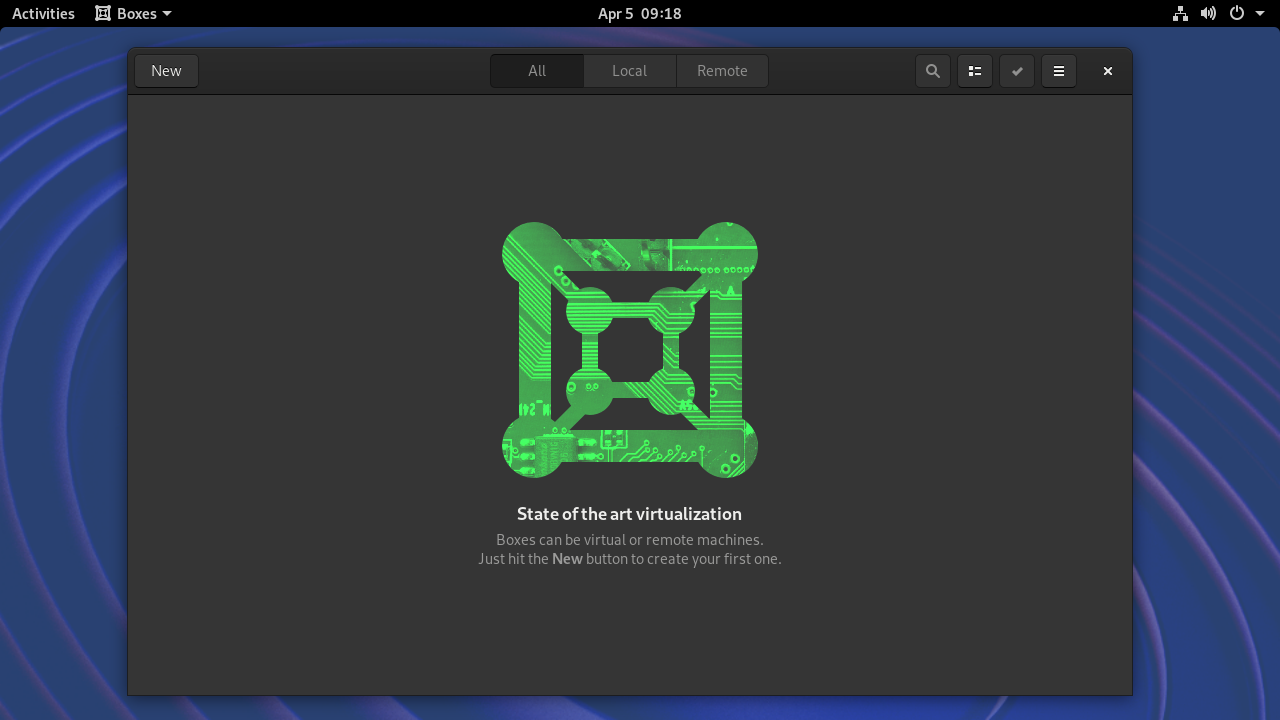
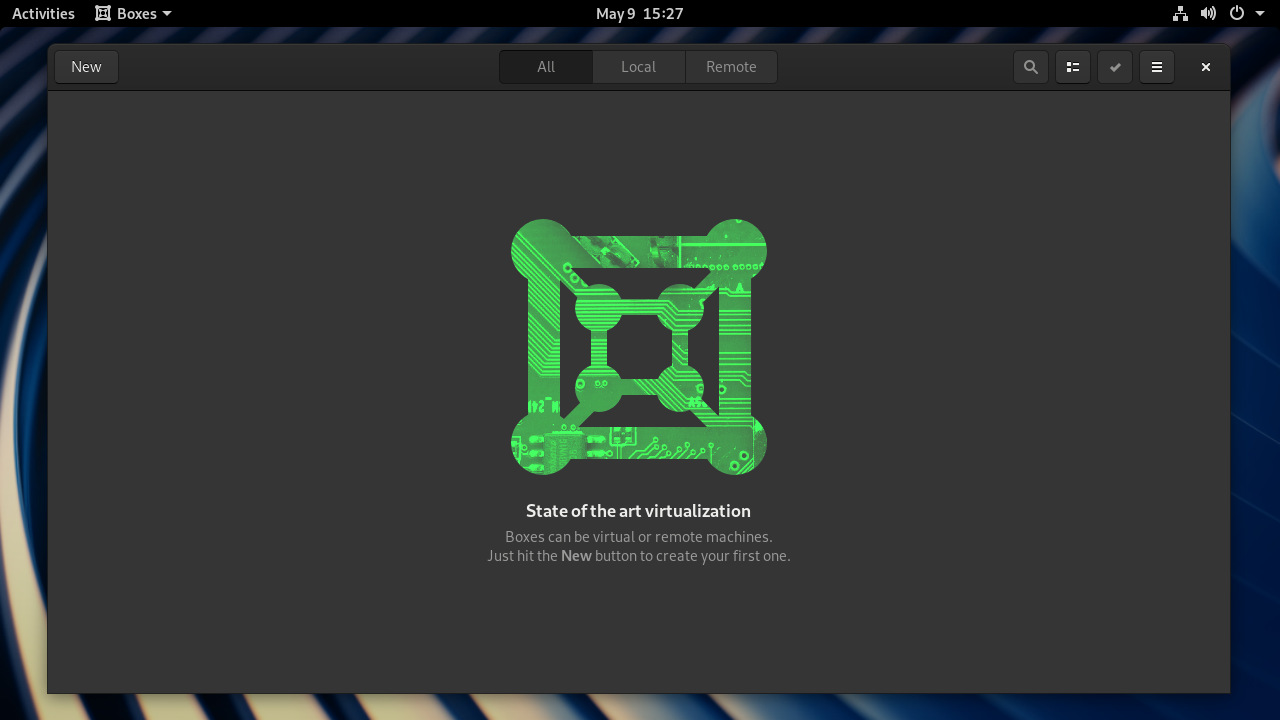
update screenshots to show the final f30 wallpaper

Changed region(s): [[0.0, 0.0, 1.0, 1.0], [0.375, 0.3056, 0.625, 0.6722], [0.375, 0.7028, 0.625, 0.7944]]

diff --git a/sites/getfedora.org/site/workstation/download/index.html b/sites/getfedora.org/site/workstation/download/index.html
@@ -99,7 +99,7 @@
           </p>
         </div>
         <div class="col-6 px-5">
-          <img class="w-100" src="/static/images/g-monitor-overview.png" />
+          <img class="w-100" src="/static/images/g-monitor-mediawriter.png" />
         </div>
       </div>
     </div>
